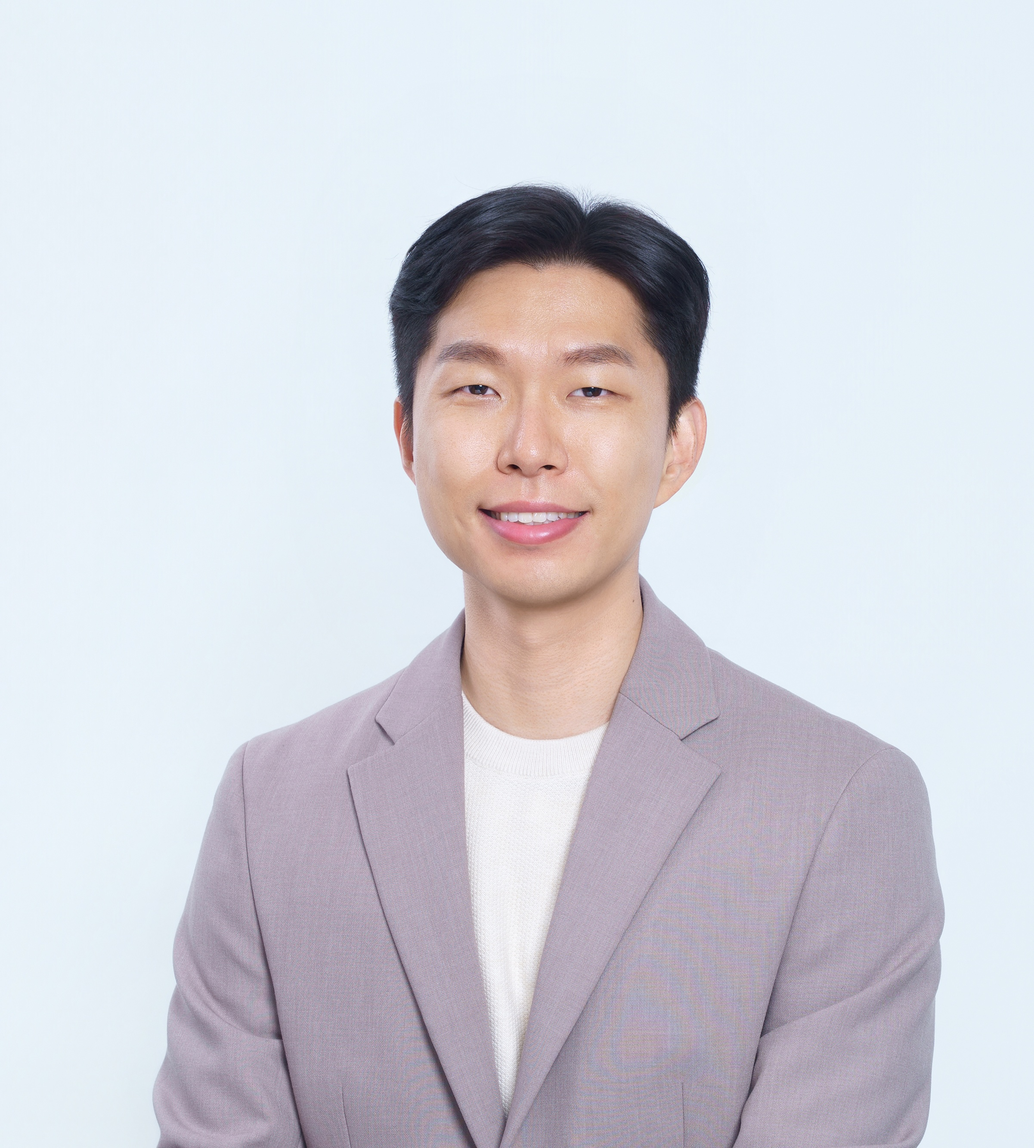
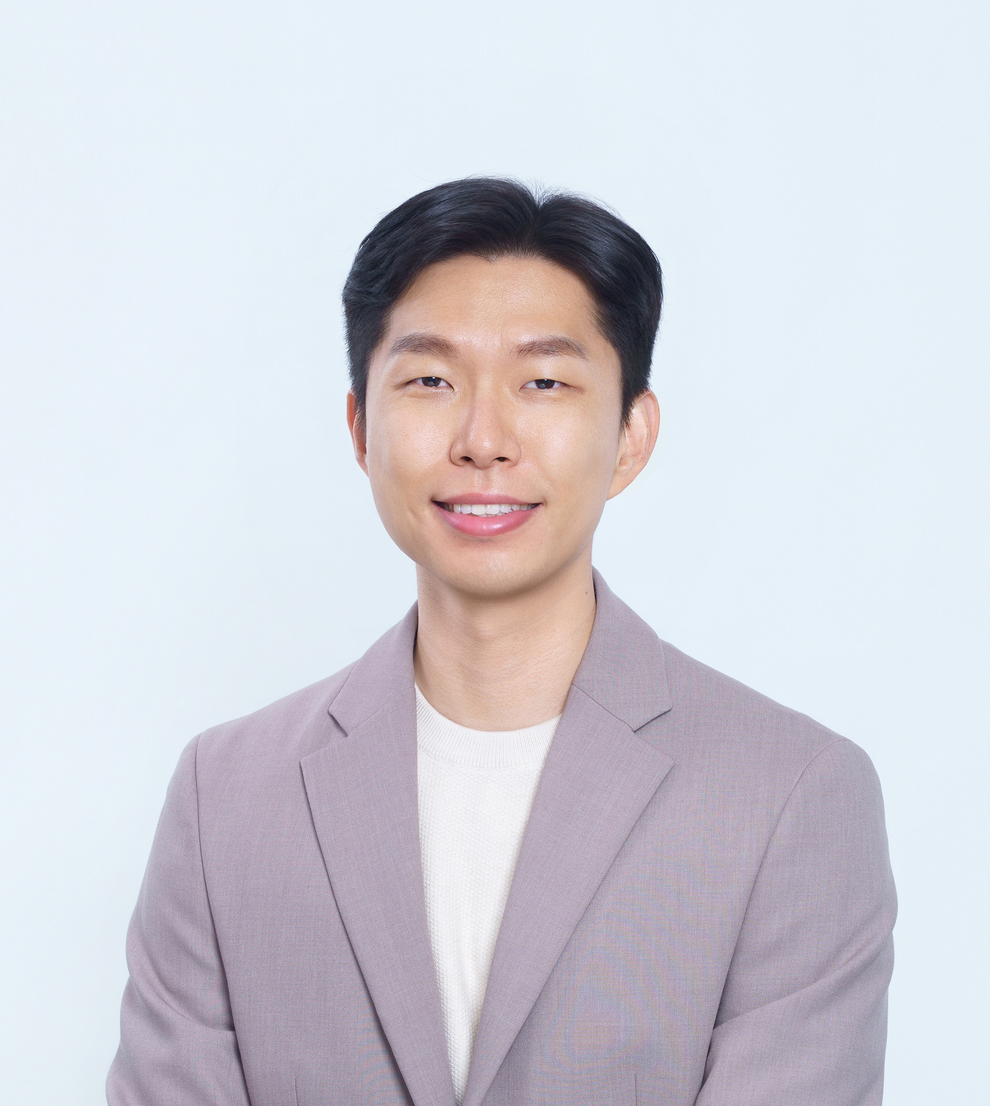
1

diff --git a/post/jupyter/index.html b/post/jupyter/index.html
@@ -864,7 +864,7 @@ date: 2019-09-01
     <div class="media author-card content-widget-hr">
       
         
-        <img class="avatar mr-3 avatar-circle" src="/authors/hyeonmin-lee/avatar_hu_a28a2eae13a1dd2b.jpg" alt="Hyeonmin Lee">
+        <img class="avatar mr-3 avatar-circle" src="/authors/hyeonmin-lee/avatar_hu_58530fcfd56f42d4.jpg" alt="Hyeonmin Lee">
       
 
       <div class="media-body">

diff --git a/authors/hyeonmin-lee/index.html b/authors/hyeonmin-lee/index.html
@@ -571,7 +571,7 @@
 
       
       
-      <img class="avatar avatar-circle" src="/authors/hyeonmin-lee/avatar_hu_a28a2eae13a1dd2b.jpg" alt="Hyeonmin Lee">
+      <img class="avatar avatar-circle" src="/authors/hyeonmin-lee/avatar_hu_58530fcfd56f42d4.jpg" alt="Hyeonmin Lee">
       
 
       <div class="portrait-title", style="margin-bottom: -25px;">

diff --git a/index.html b/index.html
@@ -627,7 +627,7 @@
 
       
       
-      <img class="avatar avatar-circle" src="/authors/hyeonmin-lee/avatar_hu_a28a2eae13a1dd2b.jpg" alt="Hyeonmin Lee">
+      <img class="avatar avatar-circle" src="/authors/hyeonmin-lee/avatar_hu_58530fcfd56f42d4.jpg" alt="Hyeonmin Lee">
       
 
       <div class="portrait-title", style="margin-bottom: -25px;">
